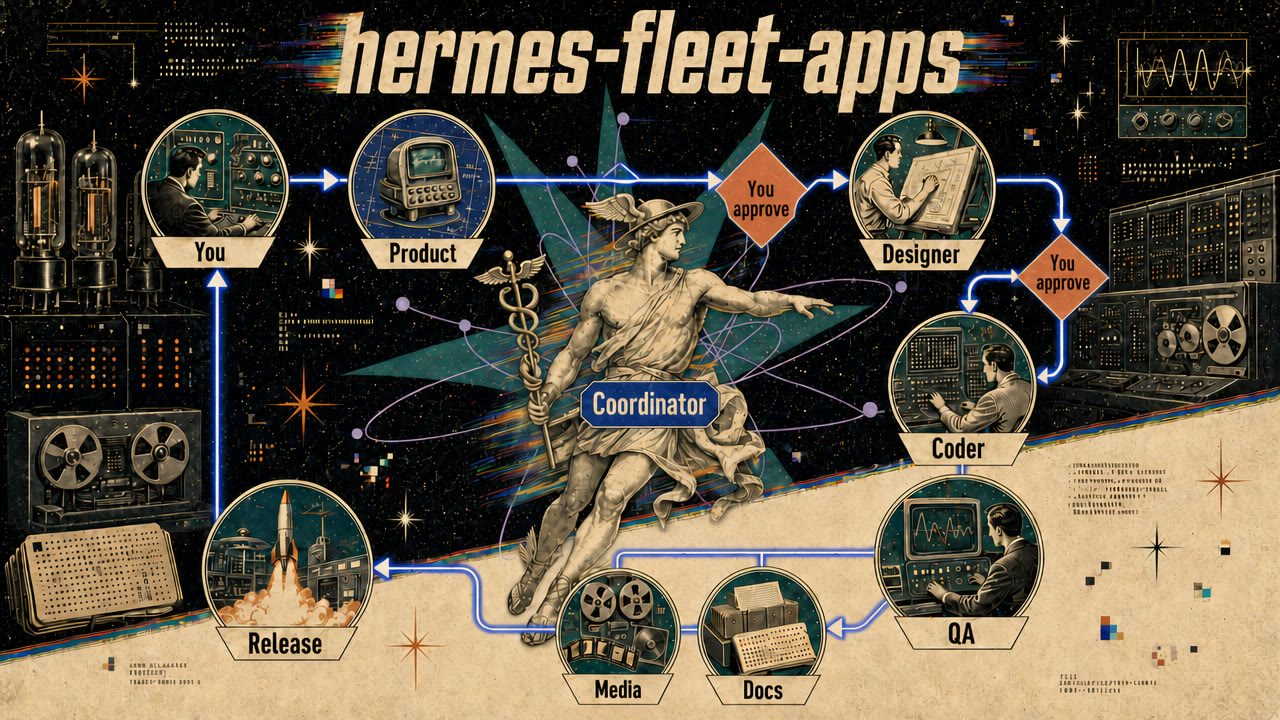
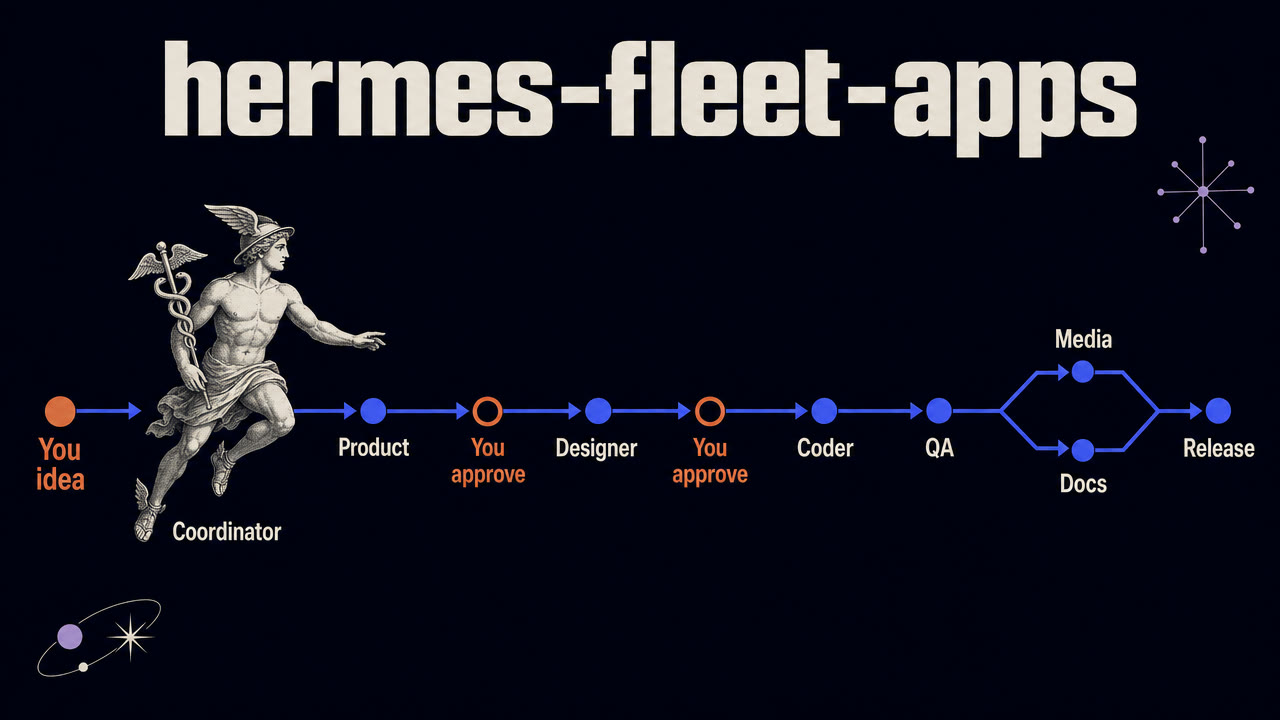
Simpler workflow picture: one line from your idea to release

diff --git a/README.md b/README.md
@@ -1,6 +1,6 @@
 # hermes-fleet-apps
 
-![The fleet at a glance: you, product, two approval gates, designer, coder, QA, media and docs, release, with Hermes as the coordinator](docs/img/fleet-workflow.jpg)
+![The fleet at a glance: you bring the idea, then Hermes the coordinator drives product, your first approval, designer, your second approval, coder, QA, media and docs, release](docs/img/fleet-workflow.jpg)
 
 *High-level picture only. The exact roles and rules are below.*
 
